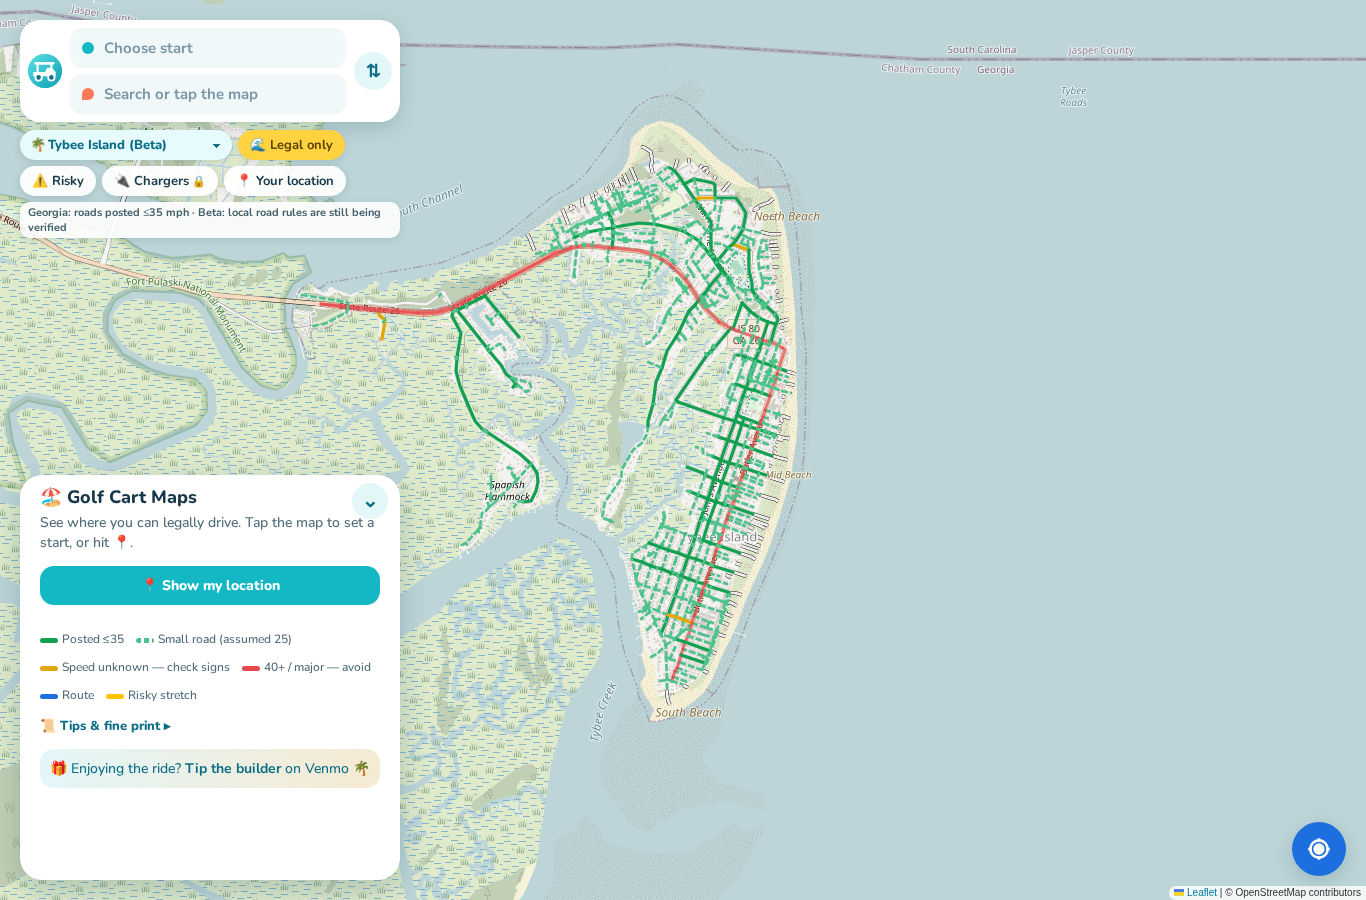
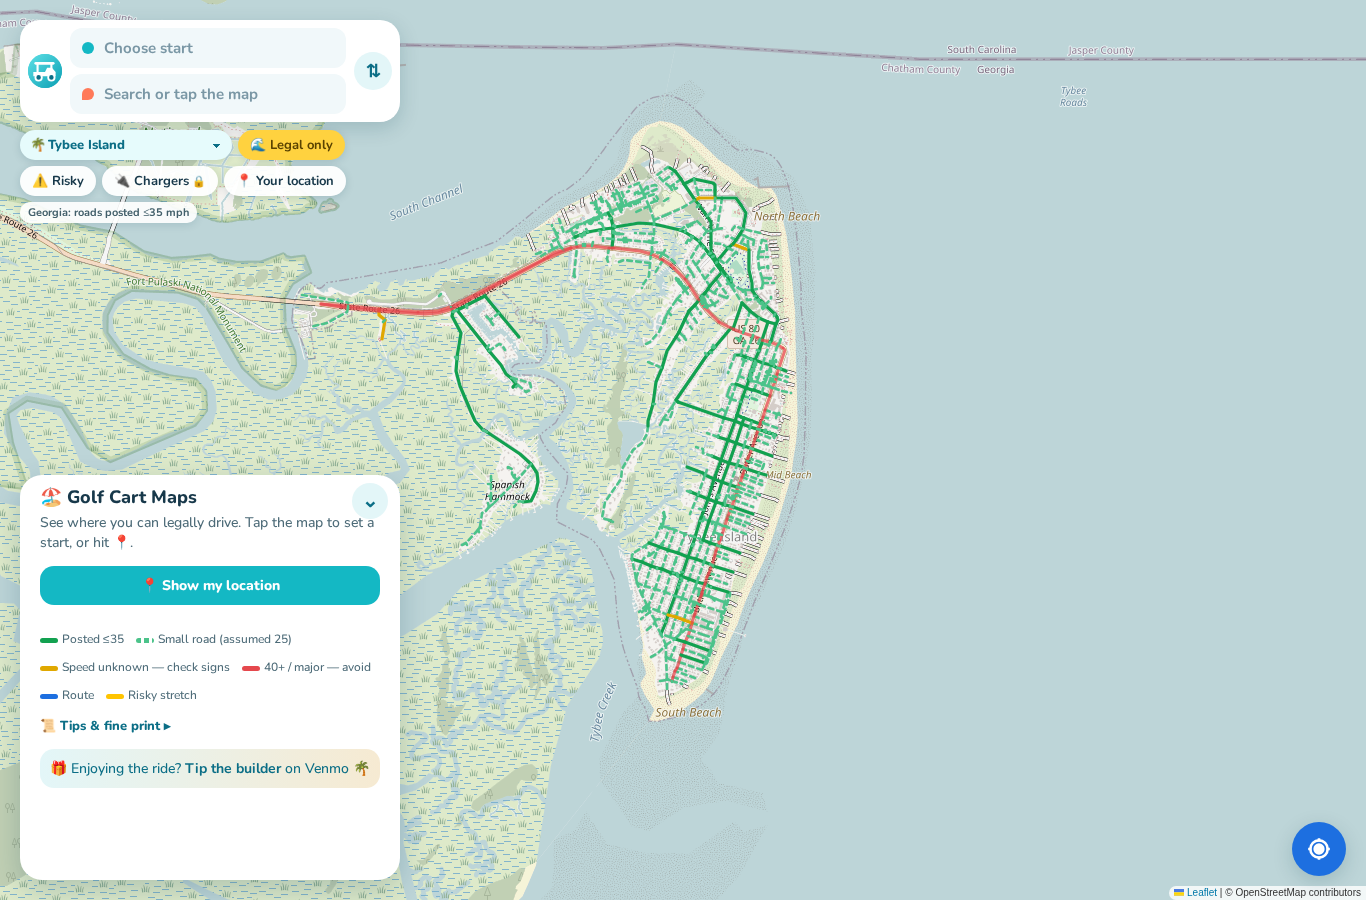
Start from me chip: shown only while planning a route; sw v35

Changed region(s): [[0.0, 0.2178, 0.3075, 0.28], [0.0922, 0.1556, 0.123, 0.1867]]

diff --git a/public/index.html b/public/index.html
@@ -78,7 +78,7 @@ details{margin-top:10px}summary{font:800 13px Nunito;color:var(--deep);list-styl
 <label class="fld" id="fT"><i class="dot" style="background:#ff7a59;border-radius:50% 50% 50% 0"></i><input id="q" placeholder="Search or tap the map" autocomplete="off" enterkeyhint="search" aria-label="To"><span id="qspin" class="spin" style="display:none;font-size:18px">🌊</span><button class="x" id="xt" aria-label="Clear destination">✕</button></label></div>
 <button id="swap2" class="sq" aria-label="Swap start and destination" title="Swap">⇅</button></div>
 <div id="sugg"></div><div id="sugghead" style="display:none"></div>
-<div id="chips"><label class="chip city" title="Choose area">🌴<select id="city" aria-label="Choose area"><option value="sd">San Diego</option></select></label><button class="chip on" id="cNorm">🌊 Legal only</button><button class="chip" id="cRisk">⚠ Risky</button><button class="chip" id="cChg" title="Show public EV chargers">🔌 Chargers</button><button class="chip" id="useme">📍 Your location</button><button class="chip" id="reset" style="display:none">✕ Reset</button></div><div id="help"></div><div id="rnote"></div></div>
+<div id="chips"><label class="chip city" title="Choose area">🌴<select id="city" aria-label="Choose area"><option value="sd">San Diego</option></select></label><button class="chip on" id="cNorm">🌊 Legal only</button><button class="chip" id="cRisk">⚠ Risky</button><button class="chip" id="cChg" title="Show public EV chargers">🔌 Chargers</button><button class="chip" id="useme" style="display:none">📍 Start from me</button><button class="chip" id="reset" style="display:none">✕ Reset</button></div><div id="help"></div><div id="rnote"></div></div>
 <button class="fab" id="loc" title="Show my location" aria-label="Show my location"><svg viewBox="0 0 24 24" fill="none" stroke="#fff" stroke-width="2.4"><circle cx="12" cy="12" r="4" fill="#fff"/><path d="M12 2v3M12 19v3M2 12h3M19 12h3"/><circle cx="12" cy="12" r="8"/></svg></button>
 <div id="sheet"><div id="shead"><div class="grab"></div><button id="chev" aria-label="Collapse or expand">⌄</button>
 <div id="title">🏖 Golf Cart Maps</div><div id="sub">Loading roads…</div></div><button class="btn" id="showloc" style="margin:4px 16px 8px;flex:none">📍 Show my location</button><div id="sbody">

diff --git a/public/app.js b/public/app.js
@@ -110,7 +110,7 @@ function sync(){start=P(from);end=P(to);mk.forEach(m=>map.removeLayer(m));mk=[];
   mk.push(x.me?L.circleMarker(P(x),{radius:14,color:c,weight:3,fill:false,interactive:false,renderer}).addTo(map):L.marker(x.ll,{icon:pinIcon(c,e)}).addTo(map))}
  $('qf').value=from?(from.me?'Your location':from.label):'';$('q').value=to?(to.me?'Your location':to.label):'';
  $('xf').style.visibility=from?'visible':'hidden';$('xt').style.visibility=to?'visible':'hidden';
- $('fF').classList.toggle('act',active==='from');$('fT').classList.toggle('act',active==='to');
+ $('fF').classList.toggle('act',active==='from');$('useme').style.display=(active||((from||to)&&!(from&&to)&&!(from&&from.me)&&!(to&&to.me)))?'':'none';$('fT').classList.toggle('act',active==='to');
  $('reset').style.display=$('acts').style.display=(from||to)?'':'none';
  $('help').textContent=active==='from'?'Tip: tap the map to drop your start pin':active==='to'||(from&&!to)?'Tip: tap the map to drop a pin for your destination':(from&&to)?'Tip: tap any road for its speed & length':'Tip: tap the map twice (start, then destination), or tap a road for its speed & length';
  if(routeG&&!(start&&end)){map.removeLayer(routeG);routeG=null;$('steps').innerHTML='';$('range').style.display='none'}

diff --git a/public/sw.js b/public/sw.js
@@ -1,4 +1,4 @@
-const C='gcm-v34';
+const C='gcm-v35';
 const PRE=['./','index.html','app.js','range.js','pay.js','data/regions.json','data/rules.json','data/sd/chargers.json','data/villages/chargers.json'];
 self.addEventListener('install',e=>{self.skipWaiting();e.waitUntil(caches.open(C).then(c=>Promise.all(PRE.map(u=>c.add(new Request(u,{cache:'reload'})).catch(()=>{})))))});
 self.addEventListener('activate',e=>e.waitUntil(caches.keys().then(ks=>Promise.all(ks.filter(k=>k!==C).map(k=>caches.delete(k)))).then(()=>self.clients.claim())));
